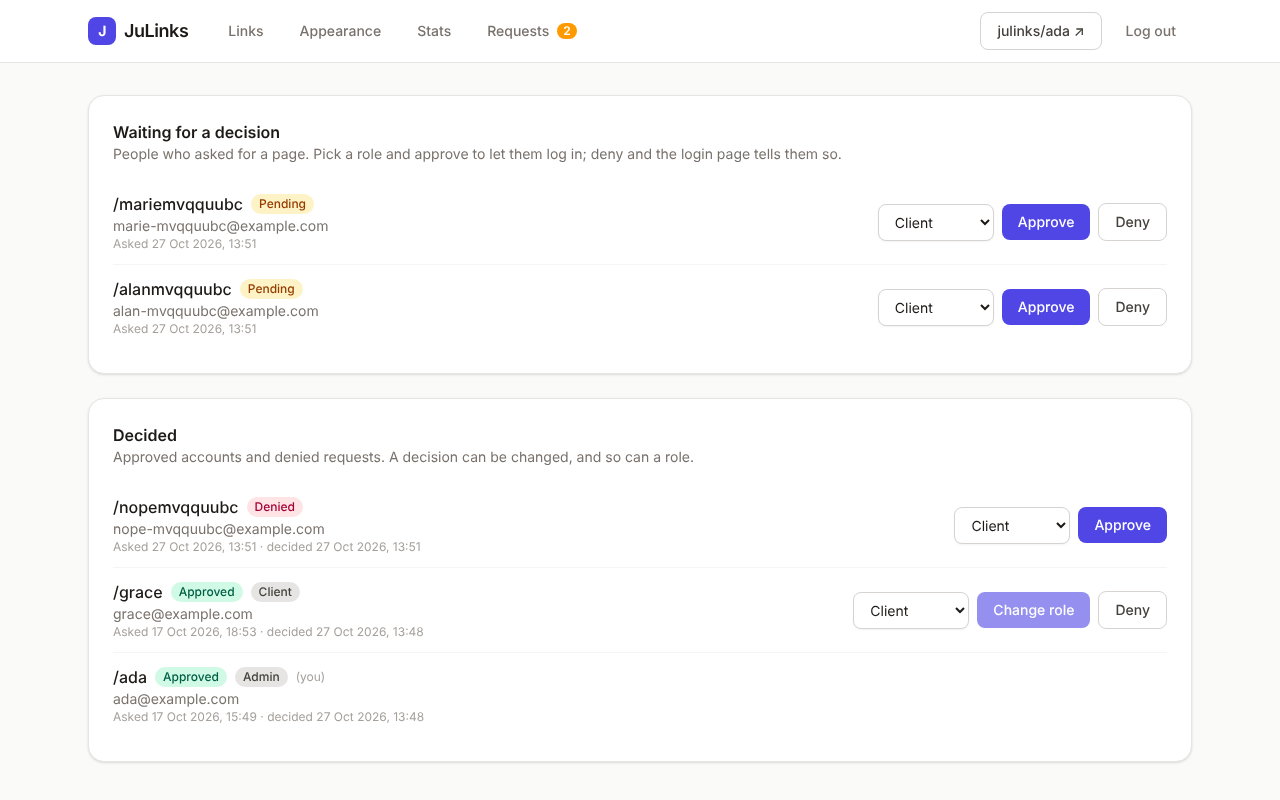
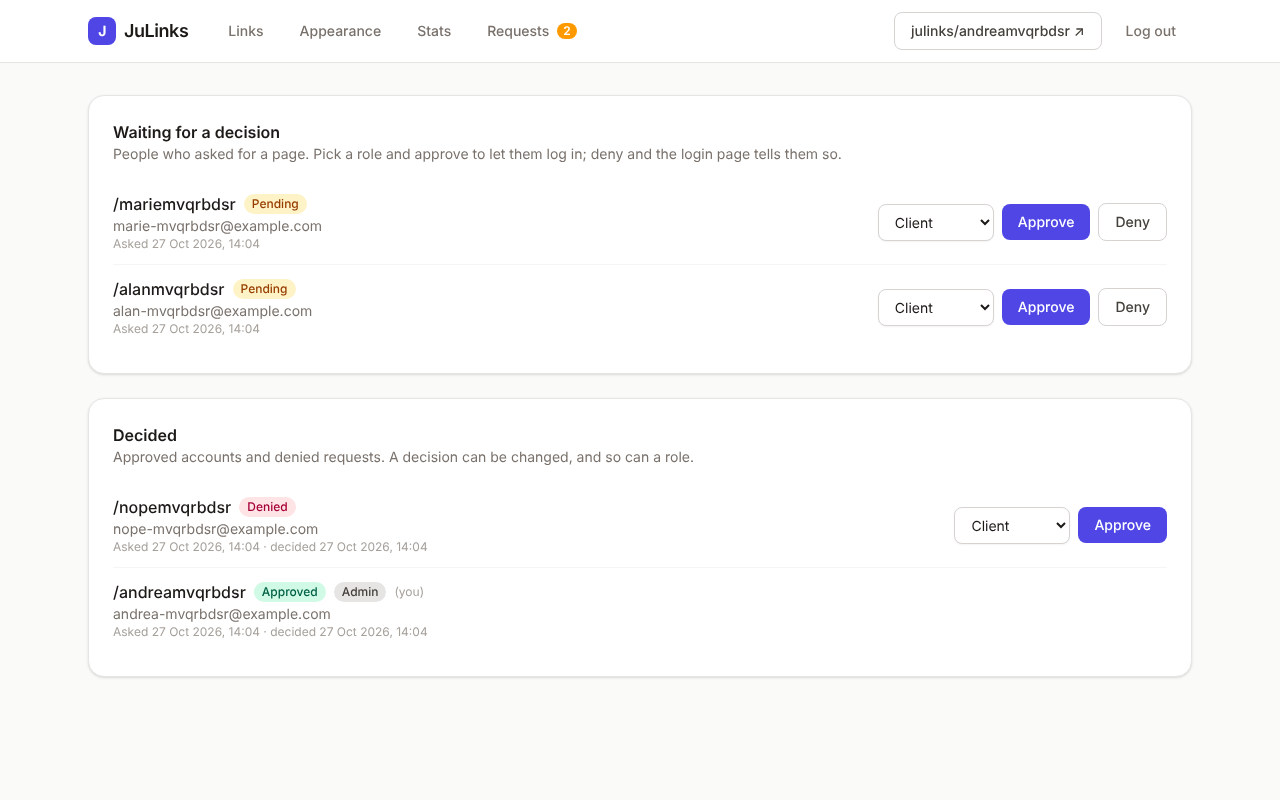
Demo profiles do not count: the first real sign-up is the admin
The seeded demo profiles (ada, grace) are flagged isDemo: they are plain
clients, never listed as requests, and ignored when deciding whether a
sign-up is the first account. The migration flags them, resets their
role, and makes the oldest real account admin when no real admin exists.

Claude-Session: https://claude.ai/code/session_011cfDeFPAtn3gpMWLoBkqMS

diff --git a/e2e/julinks.spec.ts b/e2e/julinks.spec.ts
@@ -11,8 +11,9 @@ const user = {
   // A new account's display name starts as its username.
   displayName: `e2e${run}`,
 };
+// Two more sign-ups: one gets approved as a client, one denied.
+const newcomer = { username: `new${run}`, email: `new-${run}@example.com`, password: "correct horse battery staple" };
 const refused = { username: `nope${run}`, email: `nope-${run}@example.com`, password: "correct horse battery staple" };
-const admin = { email: "ada@example.com", password: "analytical-engine" };
 
 type Credentials = { username: string; email: string; password: string };
 
@@ -73,28 +74,41 @@ test("landing page shows the seeded demo profile", async ({ page }) => {
   await expect(page.getByRole("link", { name: "Poetical science" })).toHaveAttribute("href", /^\/l\//);
 });
 
-test("invite only: requests wait for approval, denied ones are told so at login", async ({ page }) => {
-  await requestPage(page, user);
+test("invite only: the first real account is the admin, requests wait for approval, denied ones are told so at login", async ({ page }) => {
+  // The database holds only the seeded demo profiles, which do not count: this sign-up becomes the admin and lands in the dashboard.
+  await page.goto("/signup");
+  await page.getByLabel("Username").fill(user.username);
+  await page.getByLabel("Email").fill(user.email);
+  await page.getByLabel("Password").fill(user.password);
+  await page.getByRole("button", { name: "Request my page" }).click();
+  await expect(page).toHaveURL(/\/dashboard$/);
+  await expect(page.getByTestId("requests-nav")).toBeVisible();
+  await expect(page.getByTestId("requests-count")).toHaveCount(0);
+  await logout(page);
+
+  await requestPage(page, newcomer);
   await requestPage(page, refused);
 
   // A pending request cannot log in yet; the toast says so.
-  await submitLogin(page, user);
+  await submitLogin(page, newcomer);
   await expect(page.getByTestId("toast")).toContainText("waiting for approval");
   await expect(page).toHaveURL(/\/login$/);
   // Nor does it have a public page.
-  await page.goto(`/${user.username}`);
+  await page.goto(`/${newcomer.username}`);
   await expect(page.getByRole("heading", { name: "Nothing here" })).toBeVisible();
 
   // The admin sees both requests, approves one as a client and denies the other.
-  await loginAs(page, admin);
+  await login(page);
   await expect(page.getByTestId("requests-count")).toHaveText("2");
   await page.getByTestId("requests-nav").click();
   await expect(page).toHaveURL(/\/dashboard\/requests$/);
   const pendingRows = page.getByTestId("pending-requests").getByTestId("request-row");
   await expect(pendingRows).toHaveCount(2);
-  await page.getByLabel(`Role for ${user.username}`).selectOption("client");
-  await page.getByRole("button", { name: `Approve ${user.username}` }).click();
-  await expect(page.getByTestId("decided-requests").getByTestId("request-row").filter({ hasText: `/${user.username}` })).toHaveAttribute("data-status", "approved");
+  // Demo profiles are not requests.
+  await expect(page.getByTestId("request-row").filter({ hasText: "/ada" })).toHaveCount(0);
+  await page.getByLabel(`Role for ${newcomer.username}`).selectOption("client");
+  await page.getByRole("button", { name: `Approve ${newcomer.username}` }).click();
+  await expect(page.getByTestId("decided-requests").getByTestId("request-row").filter({ hasText: `/${newcomer.username}` })).toHaveAttribute("data-status", "approved");
   await page.getByRole("button", { name: `Deny ${refused.username}` }).click();
   await expect(page.getByTestId("decided-requests").getByTestId("request-row").filter({ hasText: `/${refused.username}` })).toHaveAttribute("data-status", "denied");
   await expect(page.getByTestId("no-pending")).toBeVisible();
@@ -107,10 +121,13 @@ test("invite only: requests wait for approval, denied ones are told so at login"
   await expect(page).toHaveURL(/\/login$/);
 
   // Approved: logs in normally, and clients never see the Requests page.
-  await login(page);
+  await loginAs(page, newcomer);
   await expect(page.getByTestId("requests-nav")).toHaveCount(0);
   await page.goto("/dashboard/requests");
   await expect(page.getByRole("heading", { name: "Nothing here" })).toBeVisible();
+  // Leave the browser logged out so the next test logs in as the admin again.
+  await page.goto("/dashboard");
+  await logout(page);
 });
 
 test("edit links and profile, and see the public page update", async ({ page }) => {

diff --git a/prisma/seed.ts b/prisma/seed.ts
@@ -14,19 +14,17 @@ import { PrismaClient } from "../src/generated/prisma/client";
 import { imageKey, processImage } from "../src/lib/images";
 import { putObject } from "../src/lib/storage";
 import type { ThemeTokens } from "../src/lib/themes";
-import type { Role } from "../src/lib/roles";
 import type { ImageKind } from "../src/lib/validation";
 
 const prisma = new PrismaClient({ adapter: new PrismaPg({ connectionString: process.env.DATABASE_URL }) });
 
-/** Ada is the admin of the demo install: log in as her to review sign-up requests. */
+/** Demo profiles are plain clients and never count as the first account: the first real sign-up becomes the admin. */
 export const DEMO_USER = {
   username: "ada",
   email: "ada@example.com",
   password: "analytical-engine",
   displayName: "Ada Lovelace",
   bio: "Analyst, metaphysician, and founder of scientific computing.",
-  role: "admin" as Role,
 };
 
 type DemoUser = typeof DEMO_USER & {
@@ -76,7 +74,6 @@ const DEMO_USERS: DemoUser[] = [
     password: "cobol-compiler",
     displayName: "Grace Hopper",
     bio: "Rear admiral, compiler pioneer, finder of the first bug.",
-    role: "client" as Role,
     avatar: { from: "#7dd3fc", to: "#0c4a6e" },
     theme: {
       name: "Navy Compiler",
@@ -107,8 +104,8 @@ async function main() {
     const passwordHash = await bcrypt.hash(demo.password, 12);
     const user = await prisma.user.upsert({
       where: { username: demo.username },
-      update: { displayName: demo.displayName, bio: demo.bio, status: "approved", role: demo.role },
-      create: { username: demo.username, email: demo.email, displayName: demo.displayName, bio: demo.bio, passwordHash, status: "approved", role: demo.role, reviewedAt: new Date() },
+      update: { displayName: demo.displayName, bio: demo.bio, status: "approved", role: "client", isDemo: true },
+      create: { username: demo.username, email: demo.email, displayName: demo.displayName, bio: demo.bio, passwordHash, status: "approved", role: "client", isDemo: true, reviewedAt: new Date() },
     });
     // Keys are derived from the user id, so the avatar is stored once the id is known.
     const avatarKey = await store("avatar", user.id, avatarSvg(demo.avatar));

diff --git a/src/lib/data/users.ts b/src/lib/data/users.ts
@@ -10,9 +10,11 @@ export type NewUser = { username: string; email: string; password: string; displ
 export type AccountStatus = "pending" | "approved" | "denied";
 export type { Role };
 export type NewUserOptions = {
-  /** Defaults to a pending sign-up request; seeds pass "approved". */
+  /** Defaults to a pending sign-up request; tests pass "approved". */
   status?: AccountStatus;
   role?: Role;
+  /** Seeded demo profiles: never the first account, never listed as requests. */
+  isDemo?: boolean;
 };
 
 export class UniqueViolation extends Error {
@@ -23,8 +25,9 @@ export class UniqueViolation extends Error {
 
 /**
  * Stores a sign-up. Invite only: the account starts as a pending request unless the
- * options say otherwise, with one exception: the very first account on a fresh
- * install is approved on the spot and made admin, so there is someone to review the rest.
+ * options say otherwise, with one exception: the very first real account (demo
+ * profiles do not count) is approved on the spot and made admin, so there is someone
+ * to review the rest.
  */
 export async function createUser(input: NewUser, options: NewUserOptions = {}) {
   const existing = await prisma.user.findFirst({
@@ -40,7 +43,7 @@ export async function createUser(input: NewUser, options: NewUserOptions = {}) {
     try {
       return await prisma.$transaction(
         async (tx) => {
-          const first = (await tx.user.count()) === 0;
+          const first = !options.isDemo && (await tx.user.count({ where: { isDemo: false } })) === 0;
           const status = options.status ?? (first ? "approved" : "pending");
           const role = options.role ?? (first ? "admin" : "client");
           return tx.user.create({
@@ -51,6 +54,7 @@ export async function createUser(input: NewUser, options: NewUserOptions = {}) {
               displayName: input.displayName,
               status,
               role,
+              isDemo: options.isDemo ?? false,
               reviewedAt: status === "pending" ? null : new Date(),
             },
             select: { id: true, username: true, email: true, displayName: true, status: true, role: true },

diff --git a/src/lib/data/requests.ts b/src/lib/data/requests.ts
@@ -16,12 +16,12 @@ export type Reviewer = { id: string; role: Role };
 
 const select = { id: true, username: true, email: true, status: true, role: true, createdAt: true, reviewedAt: true } as const;
 
-/** Sign-up requests waiting for a decision, oldest first, and the accounts already decided, newest decision first. */
+/** Sign-up requests waiting for a decision, oldest first, and the accounts already decided, newest decision first. Demo profiles are left out. */
 export async function listRequests(): Promise<{ pending: AccountRequest[]; decided: AccountRequest[] }> {
   const [pending, decided] = await Promise.all([
-    prisma.user.findMany({ where: { status: "pending" }, orderBy: { createdAt: "asc" }, select }),
+    prisma.user.findMany({ where: { status: "pending", isDemo: false }, orderBy: { createdAt: "asc" }, select }),
     prisma.user.findMany({
-      where: { status: { not: "pending" } },
+      where: { status: { not: "pending" }, isDemo: false },
       orderBy: [{ reviewedAt: "desc" }, { createdAt: "desc" }],
       select,
     }),
@@ -49,8 +49,8 @@ export async function reviewRequest(reviewer: Reviewer, userId: string, decision
   if (!canReview(reviewer.role) || reviewer.id === userId) throw new ReviewForbidden();
   if (decision.status === "approved" && !assignableRoles(reviewer.role).includes(decision.role)) throw new ReviewForbidden();
   return prisma.$transaction(async (tx) => {
-    const target = await tx.user.findUnique({ where: { id: userId }, select: { role: true } });
-    if (!target) throw new RequestNotFound();
+    const target = await tx.user.findUnique({ where: { id: userId }, select: { role: true, isDemo: true } });
+    if (!target || target.isDemo) throw new RequestNotFound();
     if (!canManage(reviewer.role, target.role as Role)) throw new ReviewForbidden();
     const data =
       decision.status === "approved"

diff --git a/scripts/screenshots.ts b/scripts/screenshots.ts
@@ -1,5 +1,5 @@
 /**
- * Takes the README screenshots against a running server seeded with the demo user.
+ * Takes the README screenshots against a running server on a freshly seeded database (demo profiles only).
  *
  *   npm run build && node .next/standalone/server.js   (PORT=3100, DATABASE_URL and S3_* pointing at seeded stores)
  *   npx tsx scripts/screenshots.ts
@@ -52,9 +52,20 @@ async function main() {
   await page.getByTestId("gallery-card").first().waitFor();
   await shot(page, `${out}/gallery.png`);
 
-  // Sign-up requests: ada is the admin. The requests come from a second, logged-out context.
-  const visitor = await (await browser.newContext({ viewport: { width: 1280, height: 800 }, deviceScaleFactor: 1 })).newPage();
+  // Sign-up requests. The demo profiles do not count, so on a freshly seeded database the first
+  // sign-up here becomes the admin; the requests come from a second, logged-out context.
+  await page.goto(`${base}/dashboard`);
+  await page.getByRole("button", { name: "Log out" }).click();
+  await page.waitForURL(/\/$/);
   const stamp = Date.now().toString(36);
+  await page.goto(`${base}/signup`);
+  await page.getByLabel("Username").fill(`andrea${stamp}`);
+  await page.getByLabel("Email").fill(`andrea-${stamp}@example.com`);
+  await page.getByLabel("Password").fill("correct horse battery staple");
+  await page.getByRole("button", { name: "Request my page" }).click();
+  await page.waitForURL(/\/dashboard$/);
+
+  const visitor = await (await browser.newContext({ viewport: { width: 1280, height: 800 }, deviceScaleFactor: 1 })).newPage();
   const requests = [
     { username: `marie${stamp}`, email: `marie-${stamp}@example.com` },
     { username: `alan${stamp}`, email: `alan-${stamp}@example.com` },

diff --git a/tests/integration/requests.test.ts b/tests/integration/requests.test.ts
@@ -8,11 +8,12 @@ async function setup() {
   const admin = await makeUser({ username: "admin" }, { role: "admin" });
   const moderator = await makeUser({ username: "mod" }, { role: "moderator" });
   const request = await makeUser({ username: "newcomer", email: "new@example.com" }, { status: "pending" });
+  await makeUser({ username: "ada", email: "ada@example.com" }, { isDemo: true });
   return { admin: { id: admin.id, role: "admin" as const }, moderator: { id: moderator.id, role: "moderator" as const }, request };
 }
 
 describe("listRequests", () => {
-  it("separates pending requests (oldest first) from decided accounts", async () => {
+  it("separates pending requests (oldest first) from decided accounts, leaving demo profiles out", async () => {
     const { request } = await setup();
     const later = await makeUser({ username: "later" }, { status: "pending" });
     const { pending, decided } = await listRequests();
@@ -62,5 +63,7 @@ describe("reviewRequest", () => {
     await expect(reviewRequest({ id: request.id, role: "client" }, admin.id, { status: "denied" })).rejects.toBeInstanceOf(ReviewForbidden);
     await expect(reviewRequest(admin, admin.id, { status: "denied" })).rejects.toBeInstanceOf(ReviewForbidden);
     await expect(reviewRequest(admin, "no-such-user", { status: "denied" })).rejects.toBeInstanceOf(RequestNotFound);
+    const demo = await prisma.user.findUniqueOrThrow({ where: { username: "ada" }, select: { id: true } });
+    await expect(reviewRequest(admin, demo.id, { status: "denied" })).rejects.toBeInstanceOf(RequestNotFound);
   });
 });

diff --git a/tests/integration/users.test.ts b/tests/integration/users.test.ts
@@ -13,12 +13,15 @@ describe("createUser", () => {
     expect(row.passwordHash).not.toContain("correct horse");
   });
 
-  it("makes the first account the approved admin and every later sign-up a pending client", async () => {
+  it("makes the first real account the approved admin and every later sign-up a pending client", async () => {
+    // Seeded demo profiles do not count.
+    const demo = await createUser({ username: "ada", email: "ada@example.com", password: "12345678", displayName: "Ada" }, { status: "approved", isDemo: true });
+    expect(demo.role).toBe("client");
     const first = await createUser({ username: "first", email: "first@example.com", password: "12345678", displayName: "First" });
     expect(first).toMatchObject({ status: "approved", role: "admin" });
     const second = await createUser({ username: "second", email: "second@example.com", password: "12345678", displayName: "Second" });
     expect(second).toMatchObject({ status: "pending", role: "client" });
-    const rows = await prisma.user.findMany({ orderBy: { createdAt: "asc" }, select: { reviewedAt: true } });
+    const rows = await prisma.user.findMany({ where: { isDemo: false }, orderBy: { createdAt: "asc" }, select: { reviewedAt: true } });
     expect(rows[0].reviewedAt).toBeInstanceOf(Date);
     expect(rows[1].reviewedAt).toBeNull();
   });

diff --git a/README.md b/README.md
@@ -24,7 +24,7 @@ Built with **Next.js 16** (App Router, Cache Components, Server Actions), **Reac
 
 ## What it does
 
-- **Invite-only accounts**: asking for a page (username, email, password) stores a *request*; nobody can log in until it is approved. The first account on a fresh install is approved on the spot and becomes the admin. Admins and moderators get a **Requests** page in the dashboard with the number waiting in the nav: approve with a role (`client`, `moderator` or `admin`) or deny. A pending or denied requester sees a toast at login saying so, but only with the right password, so the login form cannot be used to find out who has asked. Decisions can be revisited: a denied request approved later, an approved account revoked (its session and public page go away at once) or given another role. Moderators only make clients and cannot touch moderators or admins; nobody reviews themselves. Sessions are signed JWTs in an `httpOnly`, `SameSite=Lax` cookie, valid for seven days.
+- **Invite-only accounts**: asking for a page (username, email, password) stores a *request*; nobody can log in until it is approved. The first real account on a fresh install is approved on the spot and becomes the admin (the seeded demo profiles do not count, are plain clients and never show up as requests). Admins and moderators get a **Requests** page in the dashboard with the number waiting in the nav: approve with a role (`client`, `moderator` or `admin`) or deny. A pending or denied requester sees a toast at login saying so, but only with the right password, so the login form cannot be used to find out who has asked. Decisions can be revisited: a denied request approved later, an approved account revoked (its session and public page go away at once) or given another role. Moderators only make clients and cannot touch moderators or admins; nobody reviews themselves. Sessions are signed JWTs in an `httpOnly`, `SameSite=Lax` cookie, valid for seven days.
 - **Link editor** at `/dashboard`: add, edit, enable/disable and delete links, drag-and-drop or keyboard reordering, with a phone-sized live preview that updates as you type.
 - **Pictures**: an avatar, a picture per link and a background image per theme. A link's picture shows either small beside the title or big above it, like a card, and both it and the avatar can be centred on any point: click the picture (or drag) and the page crops around that point with `object-fit`, so nothing is thrown away at upload time. Uploads are decoded, resized, stripped of metadata and re-encoded as WebP with `sharp`, then stored in an S3 bucket (SeaweedFS in the compose stack) under a content-addressed key and served through `/img/…` with an immutable cache header.
 - **Themes** at `/dashboard/appearance`: start from one of five presets, then change every colour, gradient, button style, corner radius and font, add a background image with an adjustable darkening overlay, and save it as a named theme. Several themes per account; the active one is what visitors see.
@@ -63,8 +63,8 @@ docker compose up --build
 Then open <http://localhost:3000>. Four services: PostgreSQL, SeaweedFS (S3), a one-shot `migrate` container (migrations, demo profiles, demo images uploaded to the bucket) and `web`, which starts once `migrate` has finished.
 
 - Demo pages: <http://localhost:3000/ada> and <http://localhost:3000/grace>; gallery at <http://localhost:3000/themes>
-- Demo login: `ada@example.com` / `analytical-engine` (Ada is the admin: her **Requests** page is where sign-ups get approved or denied)
-- Fresh database without the demo seed: the first account you create is approved and made admin automatically.
+- Demo login: `ada@example.com` / `analytical-engine` (a plain client, like every demo profile)
+- Your own account: the first one you create is approved and made admin automatically, and its **Requests** page is where later sign-ups get approved or denied.
 - Change the host port with `WEB_PORT=8080 docker compose up`; set `SESSION_SECRET` and `S3_SECRET_ACCESS_KEY` for anything that is not a demo.
 - Pointing the app at AWS S3, Cloudflare R2 or another S3-compatible service is a matter of the `S3_*` variables (see `.env.example`).
 
@@ -96,7 +96,7 @@ CI ([`.github/workflows/ci.yml`](.github/workflows/ci.yml)) runs lint, typecheck
 ## Security notes
 
 - Passwords are hashed with bcrypt (cost 12). Login compares against a dummy hash when the email is unknown, so timing does not reveal registered emails; whether a request is pending or denied is revealed only after the password matched.
-- Review rights are enforced in the data layer inside the same transaction that reads the target's role, not only in the UI; the first-account bootstrap runs serializable so two simultaneous first sign-ups cannot both become admin.
+- Review rights are enforced in the data layer inside the same transaction that reads the target's role, not only in the UI; the first-account bootstrap runs serializable so two simultaneous first sign-ups cannot both become admin. Demo profiles, whose passwords are public, can never be admins.
 - Server Actions and route handlers never trust the client for authorisation; the session is verified on every call and every write is scoped to the owner.
 - Link URLs are limited to `http(s)`; `javascript:`, `data:` and friends are rejected server-side.
 - Uploads are capped at 5 MB, must decode as PNG, JPEG, WebP or GIF, and are always re-encoded: what gets stored and served is a WebP the server produced, never the original bytes. Storage keys are generated by the app and the image route serves only keys of that shape.
